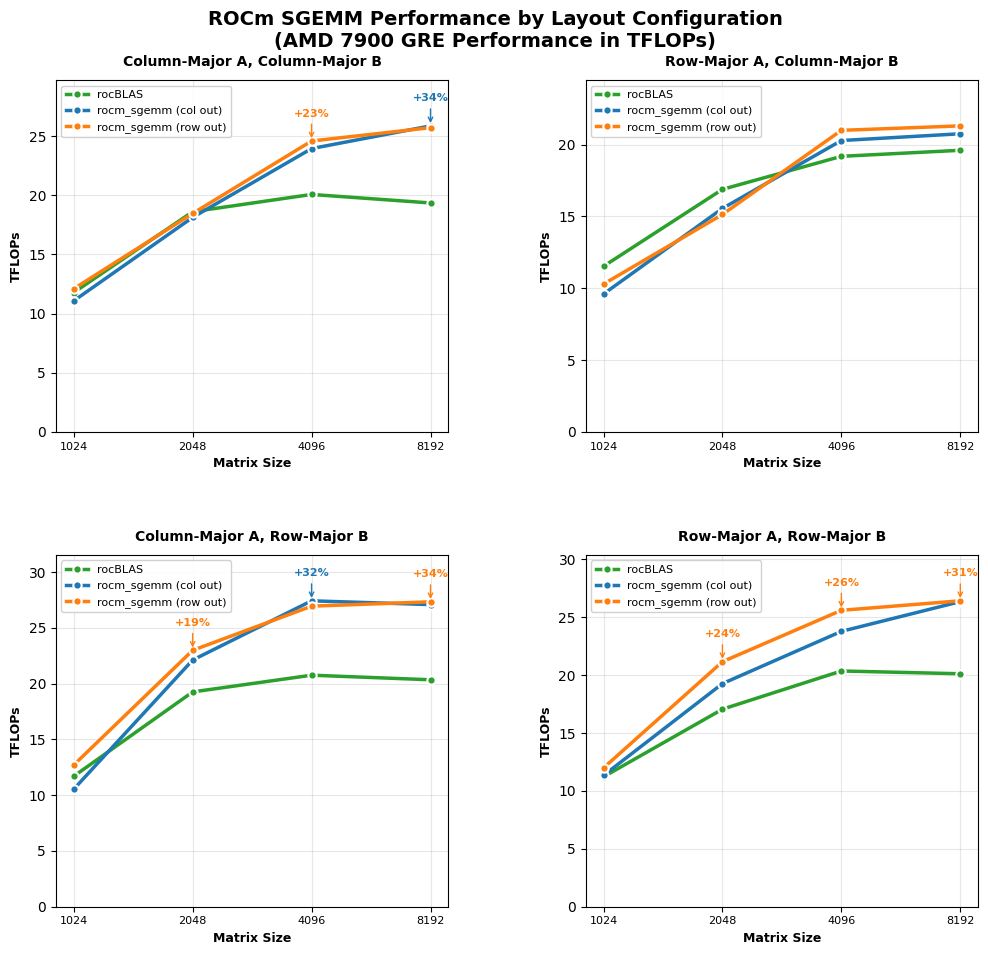
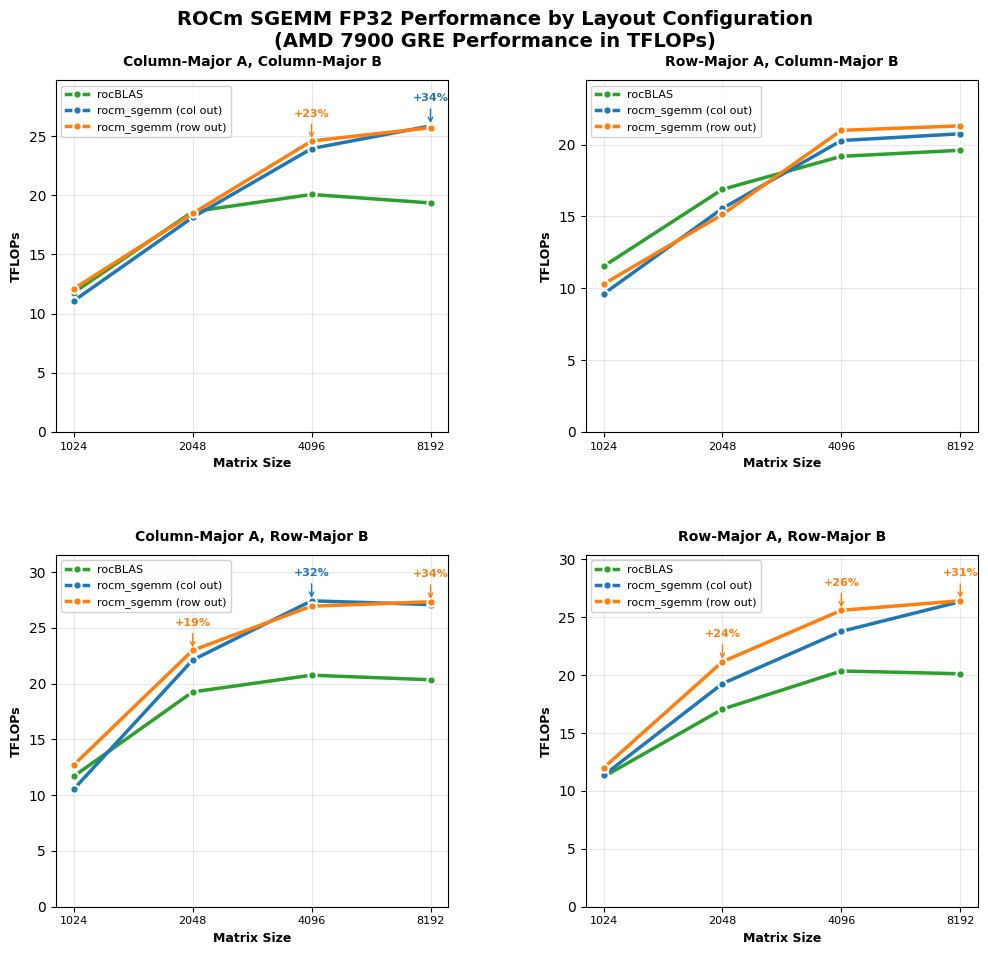
Fix readme.md

Changed region(s): [[0.1822, 0.0, 0.8198, 0.0304]]

diff --git a/README.md b/README.md
@@ -37,7 +37,7 @@ Testing all implementations on the same hardware (AMD 7900 GRE) using minimum ex
 
 Below are the average execution times by modifying Sebastien's benchmarking methodology:
 
-| Implementation | Description | Average Time (ms) | Performance (GFLOPS) | vs rocBLAS |
+| Implementation | Description | Average Time (ms) | Performance (TFLOPS) | vs rocBLAS |
 |----------------|-------------|-----------|---------------------|-------------|
 | rocBLAS | Baseline | 6.28 | 21.9 | 100.0% |
 | Sebastien K5 | LDS Optimization (HIP C++) | 5.96 | 23.1 | 105.5% |
@@ -70,8 +70,8 @@ Below is a comparison against rocBLAS for different layout permutations and usin
 ### Build Steps
 1. Clone the repository:
    ```bash
-   git https://github.com/adelj88/rocm_wmma_gemm.git
-   cd rocm_wmma_gemm
+   git https://github.com/adelj88/rocm_sgemm.git
+   cd rocm_sgemm
    ```
 2. Build:
    ```bash

diff --git a/docs/square.md b/docs/square.md
@@ -2,6 +2,8 @@
 
 Performance measured on AMD Radeon RX 7900 GRE on WSL2 (Ubuntu 24.04.1 LTS, ROCm 6.4.1) in TFLOPs.
 
+## FP32 Performance Results
+
 | Matrix Size    | Input Layout (A,B) | `rocm_sgemm`<br>(C=col)    | `rocBLAS`<br>(C=col)| Ratio<br>(C=col / rocBLAS)| `rocm_sgemm`<br>(C=row)    | Ratio<br>(C=row / rocBLAS)|
 |:---------------|:-------------------|---------------------------:|--------------------:|--------------------------:|---------------------------:|--------------------------:|
 | 1024×1024×1024 | col, col           |                      11.08 |               11.78 |                      0.94 |                      12.10 |                      1.03 |
